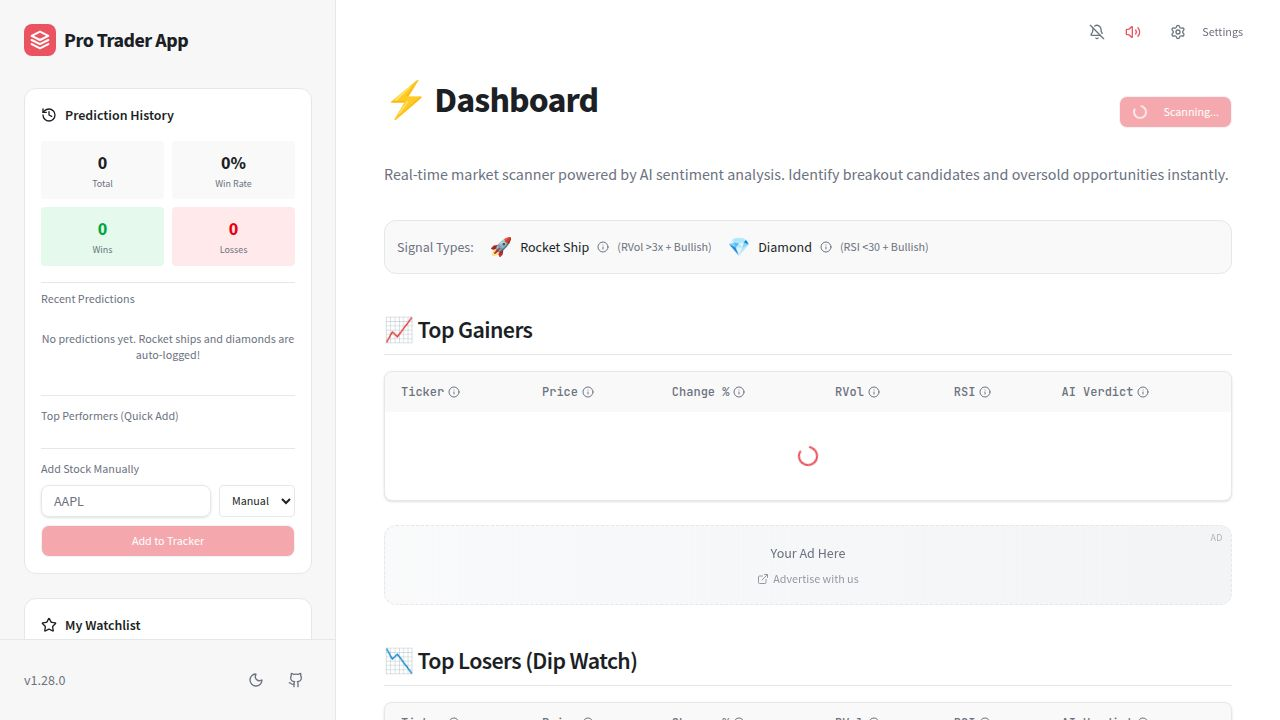
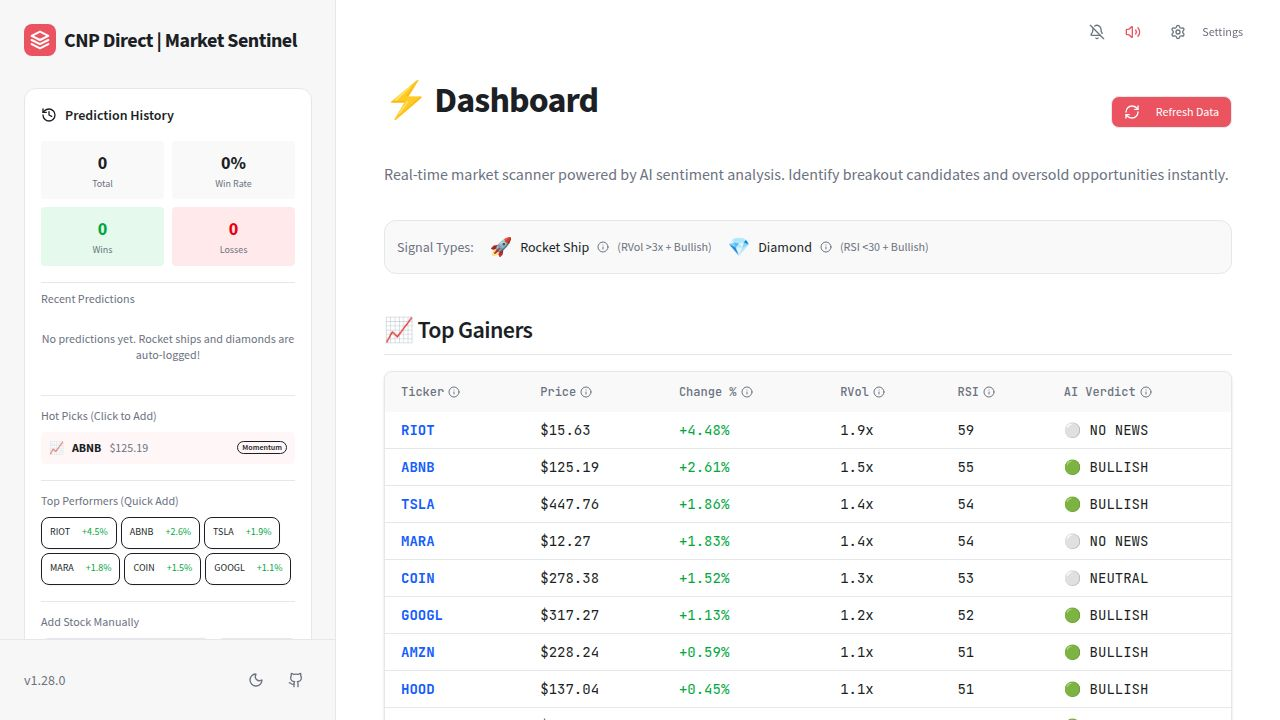
Update application to use new signal names and terminology
Replaces legacy "Rocket Ship" and "Diamond" terms with "MOMENTUM BUY", "VALUE BUY", and "SELL WARNING" across the application, including UI elements, notifications, and internal logic. Updates meta tags and site titles for a brand refresh.

Replit-Commit-Author: Agent
Replit-Commit-Session-Id: db5ff1cf-1c07-46d6-991a-c6b152a6deed
Replit-Commit-Checkpoint-Type: intermediate_checkpoint
Replit-Commit-Event-Id: e588f978-9d50-4f8b-803d-4b4e99e365a1
Replit-Commit-Screenshot-Url: https://storage.googleapis.com/screenshot-production-us-central1/4bf776fa-5e1b-4027-845b-9c419019ac8b/db5ff1cf-1c07-46d6-991a-c6b152a6deed/DMOHm84
Replit-Helium-Checkpoint-Created: true

diff --git a/client/src/pages/Home.tsx b/client/src/pages/Home.tsx
@@ -200,14 +200,14 @@ export default function Home() {
     const permission = await Notification.requestPermission();
     if (permission === "granted") {
       setNotificationsEnabled(true);
-      toast.success("Alerts enabled!", { description: "You'll get notified when Rocket Ships are detected" });
+      toast.success("Alerts enabled!", { description: "You'll get notified when Buy signals are detected" });
     } else {
       toast.error("Notifications blocked", { description: "Enable notifications in your browser settings" });
     }
   }, []);
 
   // Function to send alert (browser notification + sound)
-  const sendRocketShipAlert = useCallback((stock: StockData, signalType: string) => {
+  const sendSignalAlert = useCallback((stock: StockData, signalType: string) => {
     // Play sound if enabled
     if (soundEnabled && audioRef.current) {
       audioRef.current.currentTime = 0;
@@ -216,9 +216,14 @@ export default function Home() {
     
     // Send browser notification if enabled and supported
     if (notificationsEnabled && typeof Notification !== "undefined" && Notification.permission === "granted") {
-      const icon = signalType === "Rocket Ship" ? "🚀" : "💎";
+      const icon = signalType === "MOMENTUM BUY" ? "🚀" : signalType === "VALUE BUY" ? "💎" : "⚠";
+      const description = signalType === "MOMENTUM BUY" 
+        ? "High volume + bullish confluence" 
+        : signalType === "VALUE BUY" 
+        ? "Oversold + sentiment not bearish" 
+        : "Overbought + bearish sentiment";
       new Notification(`${icon} ${signalType} Alert!`, {
-        body: `${stock.ticker} at $${stock.price.toFixed(2)} - ${signalType === "Rocket Ship" ? "High volume + bullish" : "Oversold + bullish"}`,
+        body: `${stock.ticker} at $${stock.price.toFixed(2)} - ${description}`,
         icon: "/favicon.ico",
         tag: `${stock.ticker}-${signalType}`,
         requireInteraction: true,
@@ -411,7 +416,7 @@ export default function Home() {
 
   const allTickers = useMemo(() => marketData.map((d) => d.ticker), [marketData]);
 
-  // Suggested stocks - rocket ships and diamonds not yet logged today
+  // Suggested stocks - momentum buys, value buys, and sell warnings
   const suggestedStocks = useMemo(() => {
     const today = new Date().toISOString().split('T')[0];
     const todaysPredictions = predictionsData.filter(p => p.predictionDate.startsWith(today));
@@ -420,26 +425,21 @@ export default function Home() {
     const suggestions: { stock: StockData; signalType: string; icon: string }[] = [];
     
     marketData.forEach((stock) => {
-      const isRocketShip = stock.rvol > 3 && stock.sentiment === "🟢 BULLISH";
-      const isDiamond = stock.rsi < 30 && stock.sentiment === "🟢 BULLISH";
+      // MOMENTUM BUY: rvol > 3.0 and bullish sentiment and rsi < 85
+      const isMomentumBuy = stock.rvol > 3 && stock.sentiment === "🟢 BULLISH" && stock.rsi < 85;
+      // VALUE BUY: rsi < 35 and sentiment not bearish
+      const isValueBuy = stock.rsi < 35 && stock.sentiment !== "🔴 BEARISH";
+      // SELL WARNING: rsi > 80 and bearish sentiment
+      const isSellWarning = stock.rsi > 80 && stock.sentiment === "🔴 BEARISH";
       
-      if (isRocketShip && !alreadyLoggedToday.has(`${stock.ticker}-Rocket Ship`)) {
-        suggestions.push({ stock, signalType: "Rocket Ship", icon: "🚀" });
+      if (isMomentumBuy && !alreadyLoggedToday.has(`${stock.ticker}-MOMENTUM BUY`)) {
+        suggestions.push({ stock, signalType: "MOMENTUM BUY", icon: "🚀" });
       }
-      if (isDiamond && !alreadyLoggedToday.has(`${stock.ticker}-Diamond`)) {
-        suggestions.push({ stock, signalType: "Diamond", icon: "💎" });
+      if (isValueBuy && !alreadyLoggedToday.has(`${stock.ticker}-VALUE BUY`)) {
+        suggestions.push({ stock, signalType: "VALUE BUY", icon: "💎" });
       }
-    });
-    
-    // Also add top 3 gainers with bullish sentiment as "Momentum" picks
-    const topGainers = [...marketData]
-      .filter(s => s.changePercent > 2 && s.sentiment === "🟢 BULLISH")
-      .sort((a, b) => b.changePercent - a.changePercent)
-      .slice(0, 3);
-    
-    topGainers.forEach((stock) => {
-      if (!alreadyLoggedToday.has(`${stock.ticker}-Momentum`) && !suggestions.find(s => s.stock.ticker === stock.ticker)) {
-        suggestions.push({ stock, signalType: "Momentum", icon: "📈" });
+      if (isSellWarning && !alreadyLoggedToday.has(`${stock.ticker}-SELL WARNING`)) {
+        suggestions.push({ stock, signalType: "SELL WARNING", icon: "⚠" });
       }
     });
     
@@ -474,7 +474,7 @@ export default function Home() {
     }
   }, [allTickers, selectedTicker]);
 
-  // Auto-log rocket ships and diamonds
+  // Auto-log high-confidence signals (Momentum Buy, Value Buy)
   useEffect(() => {
     if (marketData.length === 0 || predictionsData === undefined) return;
     
@@ -483,44 +483,46 @@ export default function Home() {
     const alreadyLoggedToday = new Set(todaysPredictions.map(p => `${p.ticker}-${p.signalType}`));
     
     marketData.forEach((stock) => {
-      const isRocketShip = stock.rvol > 3 && stock.sentiment === "🟢 BULLISH";
-      const isDiamond = stock.rsi < 30 && stock.sentiment === "🟢 BULLISH";
+      // MOMENTUM BUY: rvol > 3.0 and bullish sentiment and rsi < 85
+      const isMomentumBuy = stock.rvol > 3 && stock.sentiment === "🟢 BULLISH" && stock.rsi < 85;
+      // VALUE BUY: rsi < 35 and sentiment not bearish
+      const isValueBuy = stock.rsi < 35 && stock.sentiment !== "🔴 BEARISH";
       
-      if (isRocketShip) {
-        const key = `${stock.ticker}-Rocket Ship`;
+      if (isMomentumBuy) {
+        const key = `${stock.ticker}-MOMENTUM BUY`;
         if (!alreadyLoggedToday.has(key) && !autoLoggedTickers.has(key)) {
           setAutoLoggedTickers(prev => new Set(Array.from(prev).concat(key)));
           createPredictionMutation.mutate({
             ticker: stock.ticker,
-            signalType: "Rocket Ship",
+            signalType: "MOMENTUM BUY",
             entryPrice: stock.price,
           });
-          sendRocketShipAlert(stock, "Rocket Ship");
-          toast.success(`🚀 Rocket Ship Detected!`, {
-            description: `${stock.ticker} at $${stock.price.toFixed(2)} - High volume + bullish sentiment`,
+          sendSignalAlert(stock, "MOMENTUM BUY");
+          toast.success(`🚀 MOMENTUM BUY Detected!`, {
+            description: `${stock.ticker} at $${stock.price.toFixed(2)} - High volume + bullish confluence`,
             duration: 5000,
           });
         }
       }
       
-      if (isDiamond) {
-        const key = `${stock.ticker}-Diamond`;
+      if (isValueBuy) {
+        const key = `${stock.ticker}-VALUE BUY`;
         if (!alreadyLoggedToday.has(key) && !autoLoggedTickers.has(key)) {
           setAutoLoggedTickers(prev => new Set(Array.from(prev).concat(key)));
           createPredictionMutation.mutate({
             ticker: stock.ticker,
-            signalType: "Diamond",
+            signalType: "VALUE BUY",
             entryPrice: stock.price,
           });
-          sendRocketShipAlert(stock, "Diamond");
-          toast.success(`💎 Diamond in the Rough!`, {
-            description: `${stock.ticker} at $${stock.price.toFixed(2)} - Oversold + bullish sentiment`,
+          sendSignalAlert(stock, "VALUE BUY");
+          toast.success(`💎 VALUE BUY Detected!`, {
+            description: `${stock.ticker} at $${stock.price.toFixed(2)} - Oversold + sentiment not bearish`,
             duration: 5000,
           });
         }
       }
     });
-  }, [marketData, predictionsData, autoLoggedTickers, createPredictionMutation, sendRocketShipAlert]);
+  }, [marketData, predictionsData, autoLoggedTickers, createPredictionMutation, sendSignalAlert]);
 
   // Auto-update outcomes at market close (or when market data updates after close)
   // For simplicity, we'll check on each market data update if current price differs from entry
@@ -602,7 +604,7 @@ export default function Home() {
       : "0";
     const gainSign = parseFloat(gainPercent) >= 0 ? "+" : "";
     
-    const tweetText = `🚀 Just called $${pred.ticker} correctly! ${gainSign}${gainPercent}% gain\n\nEntry: $${pred.entryPrice.toFixed(2)} → Exit: $${pred.outcomePrice?.toFixed(2)}\n\nTrack your trades with CNPdirect 📈`;
+    const tweetText = `🚀 Just called $${pred.ticker} correctly! ${gainSign}${gainPercent}% gain\n\nEntry: $${pred.entryPrice.toFixed(2)} → Exit: $${pred.outcomePrice?.toFixed(2)}\n\nTrack your trades with CNP Direct 📈`;
     
     const twitterUrl = `https://twitter.com/intent/tweet?text=${encodeURIComponent(tweetText)}`;
     window.open(twitterUrl, '_blank', 'width=550,height=420');
@@ -694,7 +696,7 @@ export default function Home() {
             ))}
             {predictionsData.length === 0 && (
               <p className="text-xs text-muted-foreground text-center py-4">
-                No predictions yet. Rocket ships and diamonds are auto-logged!
+                No predictions yet. Buy signals are auto-logged!
               </p>
             )}
           </div>
@@ -1008,21 +1010,30 @@ export default function Home() {
           <span className="font-medium text-muted-foreground">Signal Types:</span>
           <div className="flex items-center gap-2">
             <span className="text-lg">🚀</span>
-            <span className="font-medium">Rocket Ship</span>
+            <span className="font-medium">MOMENTUM BUY</span>
             <Popover>
               <PopoverTrigger className="cursor-pointer"><Info className="h-3 w-3 text-muted-foreground hover:text-foreground" /></PopoverTrigger>
-              <PopoverContent className="text-sm">Stocks with unusually high trading volume (3x+ normal) combined with positive news sentiment. These often indicate strong momentum and potential breakout opportunities.</PopoverContent>
+              <PopoverContent className="text-sm">Stocks with unusually high trading volume (3x+ normal) combined with bullish sentiment and RSI below 85. These indicate strong momentum and potential breakout opportunities.</PopoverContent>
             </Popover>
-            <span className="text-xs text-muted-foreground">(RVol {">"}3x + Bullish)</span>
+            <span className="text-xs text-muted-foreground">(RVol {">"}3x + Bullish + RSI {"<"}85)</span>
           </div>
           <div className="flex items-center gap-2">
             <span className="text-lg">💎</span>
-            <span className="font-medium">Diamond</span>
+            <span className="font-medium">VALUE BUY</span>
             <Popover>
               <PopoverTrigger className="cursor-pointer"><Info className="h-3 w-3 text-muted-foreground hover:text-foreground" /></PopoverTrigger>
-              <PopoverContent className="text-sm">Oversold stocks (RSI below 30) with positive news sentiment. These may represent undervalued buying opportunities where the market hasn't yet priced in the good news.</PopoverContent>
+              <PopoverContent className="text-sm">Oversold stocks (RSI below 35) with sentiment not bearish. These may represent undervalued buying opportunities.</PopoverContent>
             </Popover>
-            <span className="text-xs text-muted-foreground">(RSI {"<"}30 + Bullish)</span>
+            <span className="text-xs text-muted-foreground">(RSI {"<"}35 + Not Bearish)</span>
+          </div>
+          <div className="flex items-center gap-2">
+            <span className="text-lg">⚠</span>
+            <span className="font-medium">SELL WARNING</span>
+            <Popover>
+              <PopoverTrigger className="cursor-pointer"><Info className="h-3 w-3 text-muted-foreground hover:text-foreground" /></PopoverTrigger>
+              <PopoverContent className="text-sm">Overbought stocks (RSI above 80) with bearish sentiment. These may indicate a potential pullback.</PopoverContent>
+            </Popover>
+            <span className="text-xs text-muted-foreground">(RSI {">"}80 + Bearish)</span>
           </div>
         </div>
 

diff --git a/client/index.html b/client/index.html
@@ -4,14 +4,14 @@
     <meta charset="UTF-8" />
     <meta name="viewport" content="width=device-width, initial-scale=1.0, maximum-scale=1" />
 
-    <meta property="og:title" content="CNPdirect" />
-    <meta property="og:description" content="Real-time stock trading dashboard with market scanning, sentiment analysis, and prediction tracking." />
+    <meta property="og:title" content="CNP Direct | Market Sentinel" />
+    <meta property="og:description" content="AI-powered market scanner with confluence analysis - Technical + Sentiment signals." />
     <meta property="og:type" content="website" />
     <meta property="og:image" content="https://replit.com/public/images/opengraph.png" />
     <meta name="twitter:card" content="summary_large_image" />
     <meta name="twitter:site" content="@replit" />
-    <meta name="twitter:title" content="CNPdirect" />
-    <meta name="twitter:description" content="Real-time stock trading dashboard with market scanning, sentiment analysis, and prediction tracking." />
+    <meta name="twitter:title" content="CNP Direct | Market Sentinel" />
+    <meta name="twitter:description" content="AI-powered market scanner with confluence analysis - Technical + Sentiment signals." />
     <meta name="twitter:image" content="https://replit.com/public/images/opengraph.png" />
 
     <link rel="icon" type="image/png" href="/favicon.png" />

diff --git a/client/src/components/streamlit/layout.tsx b/client/src/components/streamlit/layout.tsx
@@ -63,7 +63,7 @@ export function StreamlitLayout({ children, sidebar }: StreamlitLayoutProps) {
                   <path d="M12 2L2 7l10 5 10-5-10-5zM2 17l10 5 10-5M2 12l10 5 10-5" />
                 </svg>
               </div>
-              <span>CNPdirect</span>
+              <span>CNP Direct | Market Sentinel</span>
             </div>
             <Button
               variant="ghost"
@@ -187,7 +187,7 @@ export function StreamlitLayout({ children, sidebar }: StreamlitLayoutProps) {
                   {settings.notificationsEnabled ? <Bell className="h-4 w-4" /> : <BellOff className="h-4 w-4 text-muted-foreground" />}
                   <Label htmlFor="notifications" className="cursor-pointer">
                     <div>Browser Notifications</div>
-                    <p className="text-xs text-muted-foreground font-normal">Get alerts for rocket ships</p>
+                    <p className="text-xs text-muted-foreground font-normal">Get alerts for buy signals</p>
                   </Label>
                 </div>
                 <Switch
